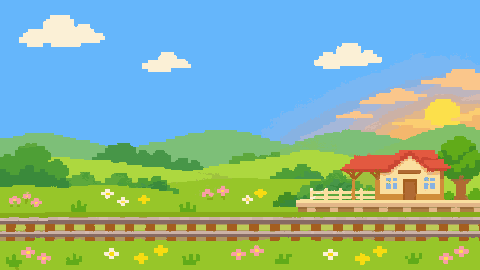
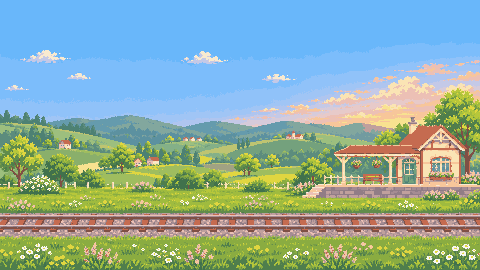
feat(grafica): portati sfondi, barra e polvere alla stessa grana degli sprite
Gli sfondi si generano con una griglia fine (GRANA_FINE, GRANA_FINISSIMA per cieli e
fondo del menu): prima ogni loro pixel valeva circa 5 pixel di gioco, contro 1 degli
sprite. Strati ridotti alla scala in cui i loro oggetti stanno accanto alla locomotiva,
strati vicini senza scenario dietro, massicciata allungata specchiandola. Il fondo di menu
e pagine si ingrandisce del fattore intero più piccolo che copre la finestra.

La barra del percorso ha una locomotiva disegnata a 32×20, non più rimpicciolita e
tagliata in alto; la polvere all'atterraggio è uno sbuffo pixel art; la scritta di
caricamento ha il contorno e la risoluzione del gioco.

diff --git a/Web/src/Game.ts b/Web/src/Game.ts
@@ -1,4 +1,4 @@
-import { Application, Container, Sprite, Texture, Ticker } from "pixi.js";
+import { Application, Container, Sprite, Ticker } from "pixi.js";
 import type GameAssets from "./assets/GameAssets.ts";
 import { COMUNE, LIVELLI, type Livello } from "./config/livelli.ts";
 import BarraPercorso from "./gioco/BarraPercorso.ts";
@@ -8,7 +8,7 @@ import Pezzi from "./gioco/Pezzi.ts";
 import Locomotiva from "./gioco/Locomotiva.ts";
 import Scenario from "./gioco/Scenario.ts";
 import { pxPerFotogramma } from "./grafica/locomotive.ts";
-import { texturesLocomotiva, textureStazione } from "./grafica/textures.ts";
+import { textureMiniaturaLocomotiva, texturePezzo, texturesLocomotiva, textureStazione } from "./grafica/textures.ts";
 import Controller from "./interaction/Controller.ts";
 import ParticleSystem from "./particles/ParticleSystem.ts";
 import type { Preferenze } from "./preferenze.ts";
@@ -85,21 +85,20 @@ class Game {
     const particelle = new Container();
     mondo.addChild(particelle);
     this._polvere = new ParticleSystem(particelle, {
-      texture: Texture.WHITE,
+      texture: texturePezzo("polvere"),
       density: 2,
-      numParticles: { min: 6, max: 10 },
+      numParticles: { min: 4, max: 6 },
       speed: { min: 20, max: 60 },
       acceleration: { min: -40, max: -10 },
       rotationSpeed: { min: 0, max: 0 },
       lifetimeSeconds: { min: 0.25, max: 0.45 },
-      scale: { min: 2, max: 3 }, // Texture.WHITE è un pixel solo: la scala è il lato in px
+      scale: { min: 1, max: 1 },
       spawnAngleDegrees: { min: 100, max: 170 },
-      colors: [0xd8cbb0, 0xb8a888, 0xf4f1ea],
     });
 
     this._pezzi = new Pezzi(particelle);
 
-    this._barra = new BarraPercorso(app.stage, width, fotogrammi[0]!);
+    this._barra = new BarraPercorso(app.stage, width, textureMiniaturaLocomotiva(preferenze.locomotiva, preferenze.colore));
 
     // Solo in sviluppo (Vite lo toglie dal build): lo stato che legge il bot della prova automatica.
     if (import.meta.env.DEV) {

diff --git a/Web/src/grafica/immagini.ts b/Web/src/grafica/immagini.ts
@@ -10,8 +10,8 @@ export type Effetto = "fumo" | "scarico" | "scintilla";
 const EFFETTI: Effetto[] = ["fumo", "scarico", "scintilla"];
 type StratoScenario = "cielo" | "lontano" | "vicino" | "binario" | "miniatura";
 const STRATI: StratoScenario[] = ["cielo", "lontano", "vicino", "binario", "miniatura"];
-export type Pezzo = "legna" | "paglia" | "asse" | "stella";
-const PEZZI: Pezzo[] = ["legna", "paglia", "asse", "stella"];
+export type Pezzo = "legna" | "paglia" | "asse" | "stella" | "polvere";
+const PEZZI: Pezzo[] = ["legna", "paglia", "asse", "stella", "polvere"];
 // Usate dal DOM (icone.ts, styles.css): precaricate anche loro, così il menu non compare a pezzi.
 const INTERFACCIA = [
   "tasti/gioca", "tasti/pausa", "tasti/casa", "tasti/ancora", "tasti/audio", "tasti/muto", "icone/ruota",
@@ -20,6 +20,7 @@ const INTERFACCIA = [
 
 export type NomeImmagine =
   | `locomotive/${IdLocomotiva}`
+  | `locomotive/${IdLocomotiva}-mini`
   | `ostacoli/${TipoOstacolo}-${number}`
   | `effetti/${Effetto}`
   | `scenari/${IdLivello}-${StratoScenario}`
@@ -31,6 +32,7 @@ export type NomeImmagine =
 // Un file per variante di ostacolo: ostacoli/<tipo>-<indice>, come le varianti di OSTACOLI.
 const NOMI: NomeImmagine[] = [
   ...LOCOMOTIVE.map((tipo) => `locomotive/${tipo}` as const),
+  ...LOCOMOTIVE.map((tipo) => `locomotive/${tipo}-mini` as const),
   ...(Object.keys(OSTACOLI) as TipoOstacolo[]).flatMap((tipo) =>
     OSTACOLI[tipo].map((_, i) => `ostacoli/${tipo}-${i}` as const),
   ),

diff --git a/Web/src/ui/styles.css b/Web/src/ui/styles.css
@@ -72,9 +72,13 @@ button {
 }
 
 /* Menu e fine partita stanno nello stesso paesaggio pixel art, 480×270 come il canvas della partita. */
+/* Ingrandito di un fattore intero (--scala-sfondo, da main.ts), il più piccolo che copre la finestra: un
+   "cover" lo stirerebbe di un fattore qualunque, con pixel di misure diverse. */
 .page,
-.menu {
-  background: var(--background) var(--img-menu-sfondo) center bottom / cover no-repeat;
+.menu,
+#orientation-overlay {
+  background: var(--background) var(--img-menu-sfondo) center bottom no-repeat;
+  background-size: calc(480px * var(--scala-sfondo, 3)) calc(270px * var(--scala-sfondo, 3));
   image-rendering: pixelated;
 }
 
@@ -330,9 +334,7 @@ canvas.pixel-art {
   position: fixed;
   inset: 0;
   z-index: 1000;
-  /* Lo stesso paesaggio del menu, col messaggio in una cornice come i pannelli delle scelte. */
-  background: var(--background) var(--img-menu-sfondo) center bottom / cover no-repeat;
-  image-rendering: pixelated;
+  /* Lo stesso paesaggio del menu (regola sopra), col messaggio in una cornice come i pannelli delle scelte. */
   color: var(--ink);
   flex-direction: column;
   align-items: center;

diff --git a/Web/src/grafica/textures.ts b/Web/src/grafica/textures.ts
@@ -3,7 +3,7 @@ import type { IdLivello } from "../config/livelli.ts";
 import type { TipoOstacolo } from "../config/ostacoli.ts";
 import type { IdColore, IdLocomotiva } from "../preferenze.ts";
 import { canvasDa, type Effetto, type Pezzo } from "./immagini.ts";
-import { FOTOGRAMMA_LOCOMOTIVA, foglioLocomotiva } from "./locomotive.ts";
+import { FOTOGRAMMA_LOCOMOTIVA, foglioLocomotiva, miniaturaLocomotiva } from "./locomotive.ts";
 import { disegnaCavo } from "./cavo.ts";
 
 // Le texture si creano una volta e restano per le partite successive, come quelle nella cache di Assets:
@@ -38,6 +38,9 @@ export const texturesLocomotiva = (tipo: IdLocomotiva, colore: IdColore): Textur
   }
   return frames;
 };
+
+export const textureMiniaturaLocomotiva = (tipo: IdLocomotiva, colore: IdColore): Texture =>
+  daCanvas(`mini:${tipo}:${colore}`, () => miniaturaLocomotiva(tipo, colore));
 
 export const textureOstacolo = (tipo: TipoOstacolo, indice: number): Texture =>
   daCanvas(`ostacolo:${tipo}:${indice}`, () => canvasDa(`ostacoli/${tipo}-${indice}`));

diff --git a/Web/src/grafica/locomotive.ts b/Web/src/grafica/locomotive.ts
@@ -19,6 +19,17 @@ export const pxPerFotogramma = (tipo: IdLocomotiva): number =>
 // Unico punto da cui partita, menu e fine partita prendono il foglio della locomotiva colorata.
 const colorati = new Map<string, HTMLCanvasElement>();
 
+/** La locomotiva 32×20 della barra del percorso, col colore scelto: disegnata a quella misura, non rimpicciolita. */
+export const miniaturaLocomotiva = (tipo: IdLocomotiva, colore: IdColore): HTMLCanvasElement => {
+  const chiave = `mini:${tipo}:${colore}`;
+  let mini = colorati.get(chiave);
+  if (!mini) {
+    mini = ricolora(canvasDa(`locomotive/${tipo}-mini`), COLORI[colore]);
+    colorati.set(chiave, mini);
+  }
+  return mini;
+};
+
 /** Foglio di 8 fotogrammi (FOTOGRAMMA_LOCOMOTIVA) con la carrozzeria nel colore scelto. Non va modificato. */
 export const foglioLocomotiva = (tipo: IdLocomotiva, colore: IdColore): HTMLCanvasElement => {
   const chiave = `${tipo}:${colore}`;

diff --git a/Web/src/gioco/BarraPercorso.ts b/Web/src/gioco/BarraPercorso.ts
@@ -3,7 +3,8 @@ import { textureIconaStazione } from "../grafica/textures.ts";
 import Numbers from "../services/Numbers.ts";
 
 const MARGINE = 40;
-const Y = 14;
+// La miniatura (32×20) poggia sulla barra: a 22 px dal bordo alto ci sta intera, ciminiera e pantografo compresi.
+const Y = 22;
 
 // Il traguardo si vede senza saper leggere: una piccola locomotiva del colore scelto va dalla partenza
 // alla stazione. Niente timer né punteggi.
@@ -29,8 +30,6 @@ class BarraPercorso {
     barra.addChild(stazione);
 
     this._miniatura = new Sprite(locomotiva);
-    // Mezza misura: 32×20, in scala intera per restare pixel art.
-    this._miniatura.scale.set(0.5);
     this._miniatura.anchor.set(0.5, 1);
     this._miniatura.position.set(this._inizio, Y + 2);
     barra.addChild(this._miniatura);

diff --git a/Web/src/ui/LoadingText.ts b/Web/src/ui/LoadingText.ts
@@ -9,10 +9,20 @@ class LoadingText {
     private readonly _app: Application,
     text: string,
   ) {
+    // Risoluzione 1: il testo si disegna sulla griglia del gioco e si ingrandisce coi suoi pixel, col contorno
+    // scuro come le scritte delle pagine HTML.
     this._text = new Text({
       text,
-      style: { fontFamily: GAME.fontFamily, fontSize: 32, fontWeight: "bold", fill: 0xffffff },
+      resolution: 1,
+      style: {
+        fontFamily: GAME.fontFamily,
+        fontSize: 24,
+        fontWeight: "bold",
+        fill: 0xf2c230,
+        stroke: { color: 0x2b2133, width: 4, join: "miter" },
+      },
     });
+    this._text.roundPixels = true;
     this._text.anchor.set(0.5);
     this._text.position.set(_app.screen.width / 2, _app.screen.height / 2);
   }

diff --git a/Web/src/main.ts b/Web/src/main.ts
@@ -28,6 +28,11 @@ if (errori.length > 0) {
   for (const nome of ["menu-sfondo", "interfaccia/cornice", "interfaccia/cornice-scelta"]) {
     radice.setProperty(`--img-${nome.replace("interfaccia/", "")}`, `url("${ASSETS_ROOT}images/${nome}.png")`);
   }
+  // Il fondo di menu e pagine (480×270) si ingrandisce del fattore intero più piccolo che copre la finestra.
+  const scalaSfondo = () =>
+    radice.setProperty("--scala-sfondo", String(Math.ceil(Math.max(innerWidth / 480, innerHeight / 270))));
+  scalaSfondo();
+  addEventListener("resize", scalaSfondo);
   const font = new FontFace("Pixelify Sans", `url("${ASSETS_ROOT}fonts/pixelify-sans-latin.woff2")`, { weight: "400 700" });
   document.fonts.add(font);
 

diff --git a/Web/strumenti/genera-immagini.py b/Web/strumenti/genera-immagini.py
@@ -36,11 +36,24 @@ STILE = (
     "Friendly, rounded, cartoon shapes. Big chunky pixels on a coarse, perfectly regular pixel grid. "
 )
 OGGETTO = "A single object, centered, on a fully transparent background, nothing else in the image, no ground shadow. "
+# Grana degli sfondi: il generatore di suo disegna "pixel" di circa 16 px, che ridotti a 480 di larghezza
+# diventano 5 pixel di gioco, cinque volte quelli degli sprite. Gli si chiede la griglia di 480.
+GRANA_FINE = (
+    "VERY FINE pixel art: draw it exactly as if the whole image were only 480 pixels wide and 320 pixels tall, "
+    "then scaled up: every single pixel is a tiny square about 3 image pixels wide, with lots of small detail. "
+    "Small clouds, small trees, small houses: nothing drawn with big chunky blocks. "
+)
+# I cieli coprono lo schermo a scala 1 e non si possono ridurre: griglia ancora più fine.
+GRANA_FINISSIMA = (
+    "EXTREMELY FINE pixel art: draw it exactly as if the whole image were 960 pixels wide and 640 pixels tall, "
+    "then scaled up: every pixel is a tiny square under 2 image pixels wide. Clouds are small and detailed, "
+    "made of many tiny pixels. "
+)
 STRATO = (
     "Pixel art game background layer, 16-bit era style, for a cheerful children's side-scrolling train game. "
     "Side view, orthographic. NO dark outlines anywhere: soft flat color shapes only. "
     "Flat shading, limited palette, no gradients, no dithering, no anti-aliasing, no text, no people, no vehicles. "
-    "Big chunky pixels on a coarse, perfectly regular pixel grid. The image is a wide horizontal strip. "
+    "The image is a wide horizontal strip. " + GRANA_FINE
 )
 
 MAGENTA = (
@@ -151,6 +164,9 @@ ASSET = {
     "pezzo-paglia": (PEZZO + "a small tuft of golden straw, three or four straws crossing.", "1024x1024"),
     "pezzo-asse": (PEZZO + "a small broken piece of a white-painted wooden fence plank with a jagged end.",
                    "1024x1024"),
+    "pezzo-polvere": (STILE + SOLO_EFFETTO + "A single small soft puff of light beige dust, like a tiny cartoon "
+                      "cloud made of three round blobs, drawn as if on an 8x8 pixel grid scaled up. No rock, no "
+                      "stone, no debris. Outline in a darker beige-brown instead of dark purple.", "1024x1024"),
     "pezzo-stella": (PEZZO + "a small bright yellow cartoon impact star with five points.", "1024x1024"),
 
     # --- Interfaccia: icone, bottoni, titolo, fondo del menu ---
@@ -170,35 +186,37 @@ ASSET = {
                "bottom shading and thick dark outline, slightly bouncy baseline, a small white steam puff "
                "rising from the dot of the letter i. Wide and short, about 3.5 times wider than tall. "
                "Correct spelling is essential.", "1536x1024"),
-    "menu-sfondo": (STRATO + "A cozy wide countryside railway landscape for a title screen, golden late "
+    "menu-sfondo": (STRATO + GRANA_FINISSIMA + "A cozy wide countryside railway landscape for a title screen, golden late "
                     "afternoon light: soft blue sky with a few fluffy clouds, rolling green hills, a small "
                     "red-roofed station far on the right, a railway track running horizontally along the "
                     "bottom, flowers in the grass. The left two thirds of the sky stay calm and simple. No "
                     "train, no people, no text.", "1536x1024"),
 
     # --- Sfondi (strisce larghe: le rende ripetibili pulisci-immagini.py) ---
-    "facile-cielo": (STRATO + "A bright clear blue sky with a few big fluffy white clouds spread across the width, "
+    "facile-cielo": (STRATO + GRANA_FINISSIMA + "A bright clear blue sky with a few big fluffy white clouds spread across the width, "
                      "lighter near the bottom. Only sky, no ground, no hills.", "1536x1024"),
     "facile-lontano": (STRATO + "Soft rolling green hills far away under a light-blue sky: a windmill, a patchwork of "
                        "fields, round trees, a small farmhouse with a red roof and a red barn. Muted colors, slightly "
                        "hazed toward light blue. The scenery fills the bottom 40% of the image; above it "
                        "the image is fully transparent (no sky).", "1536x1024"),
-    "facile-vicino": (STRATO + "A low, close bright green grassy bank seen from the side, with small pink, yellow "
+    "facile-vicino": (STRATO + "ONLY this foreground strip: nothing behind it, no houses, no trees, no hills, no buildings, no sea, no horizon; everything above it is fully transparent (no sky). "
+                      "A low, close bright green grassy bank seen from the side, with small pink, yellow "
                       "and white flowers and tiny tufts of grass; only a few very low, small round bushes. No "
                       "fences, no hay, no rocks, no tall plants. The grass is a thin strip filling only the bottom "
                       "12% of the image; above it the image is fully transparent (no sky).", "1536x1024"),
-    "medio-cielo": (STRATO + "A light afternoon sky turning warm cream near the horizon, soft cream clouds, and far "
+    "medio-cielo": (STRATO + GRANA_FINISSIMA + "A light afternoon sky turning warm cream near the horizon, soft cream clouds, and far "
                     "away along the bottom the pale blue-grey silhouette of a small town: rooftops, a church spire "
                     "and a clock tower. No ground.", "1536x1024"),
     "medio-lontano": (STRATO + "A row of colorful terraced houses (brick red, ochre, cream, teal) with pitched slate "
                       "roofs, chimneys and white windows, and a stone railway station with arched windows and a big "
                       "round clock. Slightly hazed colors. The buildings fill the bottom 45% of the image; above them "
                       "the image is fully transparent (no sky).", "1536x1024"),
-    "medio-vicino": (STRATO + "A stone railway station platform seen from the side, with a yellow safety line along "
+    "medio-vicino": (STRATO + "ONLY this foreground strip: nothing behind it, no houses, no trees, no hills, no buildings, no sea, no horizon; everything above it is fully transparent (no sky). "
+                      "A stone railway station platform seen from the side, with a yellow safety line along "
                      "its top edge, green lamp posts and wooden benches. No crates, no signals, no people. The "
                      "platform fills the bottom 20% of the image, lamp posts rise above it; behind and "
                      "above them the image is fully transparent (no sky).", "1536x1024"),
-    "difficile-cielo": (STRATO + "A clear light-blue sky with white clouds over a calm blue sea; on the sea far away "
+    "difficile-cielo": (STRATO + GRANA_FINISSIMA + "A clear light-blue sky with white clouds over a calm blue sea; on the sea far away "
                         "two small cargo ships loaded with tiny colorful containers, and a red-and-white lighthouse "
                         "on a stone breakwater. The sea fills the bottom third. Pale hazy colors for distance.",
                         "1536x1024"),
@@ -206,15 +224,16 @@ ASSET = {
                           "horizontal booms, and stacks of corrugated shipping containers in many colors. Colors "
                           "noticeably hazed toward light blue. The scenery fills the bottom 50% of the image; above "
                           "it the image is fully transparent (no sky).", "1536x1024"),
-    "difficile-vicino": (STRATO + "A concrete harbour quay seen from the side, light grey concrete with vertical "
+    "difficile-vicino": (STRATO + "ONLY this foreground strip: nothing behind it, no houses, no trees, no hills, no buildings, no sea, no horizon; everything above it is fully transparent (no sky). "
+                      "A concrete harbour quay seen from the side, light grey concrete with vertical "
                          "expansion joints and a few small dark mooring bollards on top. No containers, no barrels. "
                          "The quay fills the bottom 20% of the image; above it the image is fully transparent (no sky).",
                          "1536x1024"),
-    "binario-campagna": (STILE + "A straight railway track seen exactly from the side, filling the whole width: "
+    "binario-campagna": (STILE + GRANA_FINE + "A straight railway track seen exactly from the side, filling the whole width: "
                          "one shiny steel rail on top, the ends of wooden sleepers just below it, and brown-grey "
                          "gravel ballast underneath filling the bottom. Transparent above the rail. Uniform along "
                          "the width.", "1536x1024"),
-    "binario-porto": (STILE + "A straight railway track seen exactly from the side, filling the whole width: one "
+    "binario-porto": (STILE + GRANA_FINE + "A straight railway track seen exactly from the side, filling the whole width: one "
                       "shiny steel rail on top, the ends of dark wooden sleepers just below it, and grey gravel "
                       "ballast underneath filling the bottom. Transparent above the rail. Uniform along the width.",
                       "1536x1024"),

diff --git a/Web/strumenti/pulisci-immagini.py b/Web/strumenti/pulisci-immagini.py
@@ -330,8 +330,26 @@ def foglio_locomotiva(tipo: str) -> Image.Image:
     return foglio
 
 
+def miniatura_locomotiva(tipo: str) -> Image.Image:
+    """32×20 per la barra del percorso: la carrozzeria ridotta a quella misura e ruote piccole disegnate qui.
+    Rimpicciolire lo sprite 64×40 a metà salterebbe righe e colonne a caso."""
+    l, a = 32, 20
+    corpo = ritaglia(carica(tipo))
+    lc, ac = adatta(corpo, l - 2, a - 4)
+    corpo = riduci(corpo, lc, ac, magenta=True)
+    out = Image.new("RGBA", (l, a), (0, 0, 0, 0))
+    out.alpha_composite(corpo, ((l - lc) // 2, a - 3 - ac))
+    p = out.load()
+    for cx, r, _ in LOCOMOTIVE[tipo]["ruote"]:
+        x = round(cx / 2)
+        disco(p, l, a, x, a - 3, 2, CONTORNO)
+        disco(p, l, a, x, a - 3, 1, GRIGIO_RUOTA)
+    return out
+
+
 def locomotiva(tipo: str) -> None:
     salva(foglio_locomotiva(tipo), f"locomotive/{tipo}.png")
+    salva(miniatura_locomotiva(tipo), f"locomotive/{tipo}-mini.png")
 
 
 # --- Ostacoli: misura esatta di src/config/ostacoli.ts, appoggiati al bordo basso ----------------------------
@@ -393,10 +411,11 @@ LIVELLI = ("facile", "medio", "difficile")
 BINARI = {"facile": "binario-campagna", "medio": "binario-porto", "difficile": "binario-porto"}
 LARGHEZZA = 480
 SCHERMO = 270
-# Quanta larghezza dello schermo copre una grezza (1536 px). A 1 un pixel del generatore diventa circa 5 px di
-# gioco, troppo grosso accanto agli sprite, e lo strato vicino copre quello lontano: a metà si ripete due
-# volte per schermo, e scorrendo non si nota. Il vicino è più basso, così le colline restano in vista.
-SCALA = {"lontano": 0.5, "vicino": 0.4, "binario": 0.5}
+# Quanta larghezza dello schermo copre una grezza (1536 px). Gli sfondi si generano con GRANA_FINE: ridotti a
+# qualunque scala fino a 1, ogni pixel resta un pixel di gioco, come negli sprite (senza, il generatore disegna
+# pixel di circa 16 px, che a scala 1 diventano 5 pixel di gioco). La scala la decide quindi la misura degli
+# oggetti accanto alla locomotiva: a 1 una panchina è lunga quanto lei.
+SCALA = {"lontano": 0.6, "vicino": 0.5, "binario": 0.7}
 # Il binario scende fino al bordo basso: almeno BINARIO_DAL_BASSO di src/Game.ts.
 BINARIO_ALTEZZA = 36
 
@@ -430,20 +449,21 @@ def binario(id_asset: str) -> Image.Image:
     piccolo = riduci(im, larghezza, round(im.height * larghezza / im.width), contorno=False)
     if piccolo.height >= BINARIO_ALTEZZA:
         return piccolo
-    # Massicciata ripetuta verso il basso finché il binario arriva al bordo dello schermo.
-    pezzo = piccolo.crop((0, piccolo.height * 2 // 3, larghezza, piccolo.height))
+    # Massicciata allungata verso il basso fino al bordo dello schermo, specchiata a ogni ripetizione: una
+    # fascia ripetuta uguale disegna righe regolari, come un muro di mattoni.
+    pezzo = piccolo.crop((0, piccolo.height // 2, larghezza, piccolo.height))
     out = Image.new("RGBA", (larghezza, BINARIO_ALTEZZA), (0, 0, 0, 0))
     out.alpha_composite(piccolo, (0, 0))
-    y = piccolo.height
+    y, specchio = piccolo.height, True
     while y < BINARIO_ALTEZZA:
-        out.alpha_composite(pezzo, (0, y))
-        y += pezzo.height
+        out.alpha_composite(pezzo.transpose(Image.FLIP_TOP_BOTTOM) if specchio else pezzo, (0, y))
+        y, specchio = y + pezzo.height, not specchio
     return out
 
 
 # Quanto lo strato lontano sfuma verso il cielo dietro di lui: ciò che si urta resta saturo, ciò che si guarda
 # si attenua. Il porto di più, perché le sue pile di container somigliano agli ostacoli.
-FOSCHIA = {"facile": 0.15, "medio": 0.2, "difficile": 0.4}
+FOSCHIA = {"facile": 0.15, "medio": 0.2, "difficile": 0.25}
 
 
 def foschia(im: Image.Image, cielo_im: Image.Image, quota: float) -> Image.Image:
@@ -502,7 +522,7 @@ def effetto(id_asset: str) -> None:
 
 # Tutta l'interfaccia si mostra a ×3 (styles.css, --pixel): bottoni e icone sono composti qui alla misura
 # nativa, così ogni pixel dello schermo ha la stessa grana. Bottone: (colore, lato, icona, lato dell'icona).
-PEZZI = ("pezzo-legna", "pezzo-paglia", "pezzo-asse", "pezzo-stella")
+PEZZI = ("pezzo-legna", "pezzo-paglia", "pezzo-asse", "pezzo-stella", "pezzo-polvere")
 TASTI = {
     "gioca": ("giallo", 32, "icona-gioca", 16),
     "ancora": ("giallo", 32, "icona-ancora", 16),

diff --git a/docs/prompt-pixel-art.md b/docs/prompt-pixel-art.md
@@ -24,6 +24,17 @@ Dalla cartella `Web/`, con Pillow installato e la chiave in `~/.config/ciufciuf/
 Modello: `gpt-image-2.6-sunburst`, qualità alta. Delle due varianti 2.6 è quella pensata per il dettaglio e
 per gli asset finali (Flare è quella veloce).
 
+## Una grana sola
+
+Ogni pixel dello schermo deve avere la stessa misura: sprite, sfondi e interfaccia.
+
+- Di suo il generatore disegna «pixel» di circa 16 px. Ridotti a 480 di larghezza diventerebbero 5 pixel di
+  gioco, cinque volte quelli degli sprite. Gli sfondi si chiedono quindi con `GRANA_FINE`, come se l'immagine
+  fosse larga 480 pixel, e si usano a scala 1.
+- Il fondo di menu e pagine si ingrandisce del fattore intero più piccolo che copre la finestra, mai con
+  `cover`.
+- La miniatura della barra del percorso è disegnata a 32×20, non rimpicciolita dallo sprite.
+
 ## Cosa fa la pulizia
 
 - Riduce la palette a piena risoluzione raggruppando le tinte per distanza, poi riduce la misura dando a ogni

diff --git a/ROADMAP.md b/ROADMAP.md
@@ -186,7 +186,9 @@ vengono i suoni, non chi li usa. La grafica segnaposto disegnata a codice è sta
       quelle delle locomotive (40×28 e 48×32) stanno dentro lo sprite 64×40. `validaConfigurazione` verde
 - [x] Interfaccia nello stesso stile: titolo, bottoni con icona, cornici dei pannelli, campioni di colore,
       fondo illustrato di menu e fine partita, font pixel (Pixelify Sans), favicon; tutto a ×3 (×2 su telefono)
-- [ ] Niente atlas: 52 PNG singoli per 228 KB, caricati prima del menu da `src/grafica/immagini.ts`.
+- [x] Una grana sola: sfondi generati a griglia fine, fondo del menu a ingrandimento intero, miniatura della
+      barra disegnata a 32×20, polvere all'atterraggio in pixel art
+- [ ] Niente atlas: 56 PNG singoli per 348 KB, caricati prima del menu da `src/grafica/immagini.ts`.
       Da rivedere solo se il caricamento si nota su rete lenta
 
 ### 7. Audio
